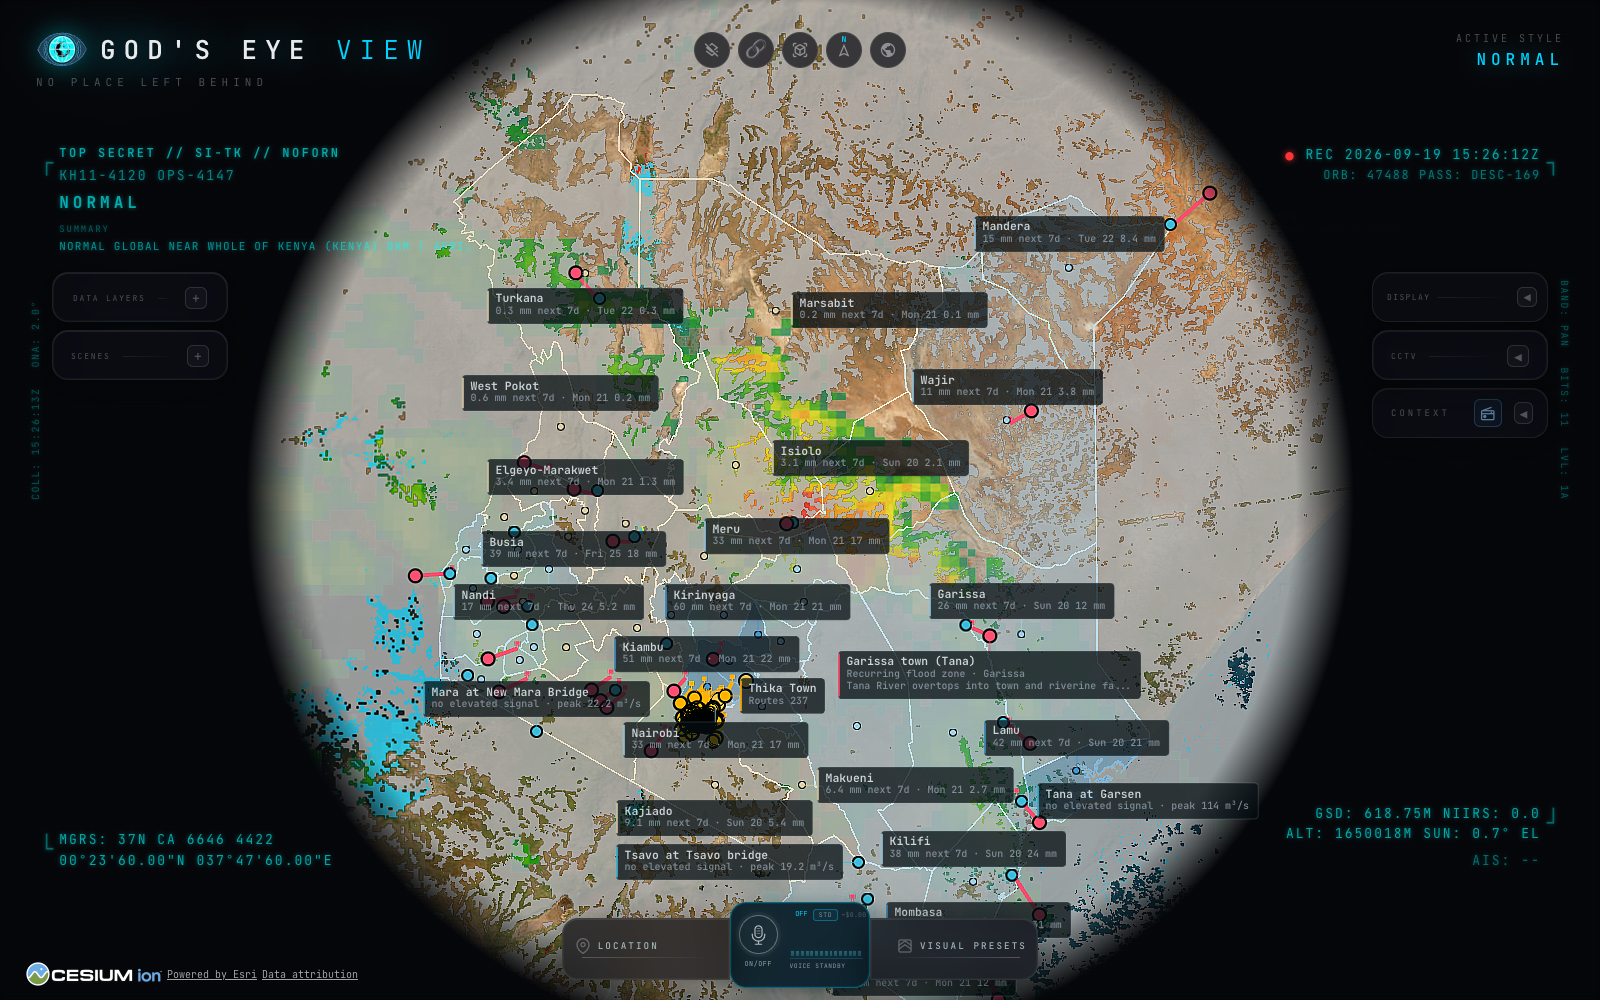
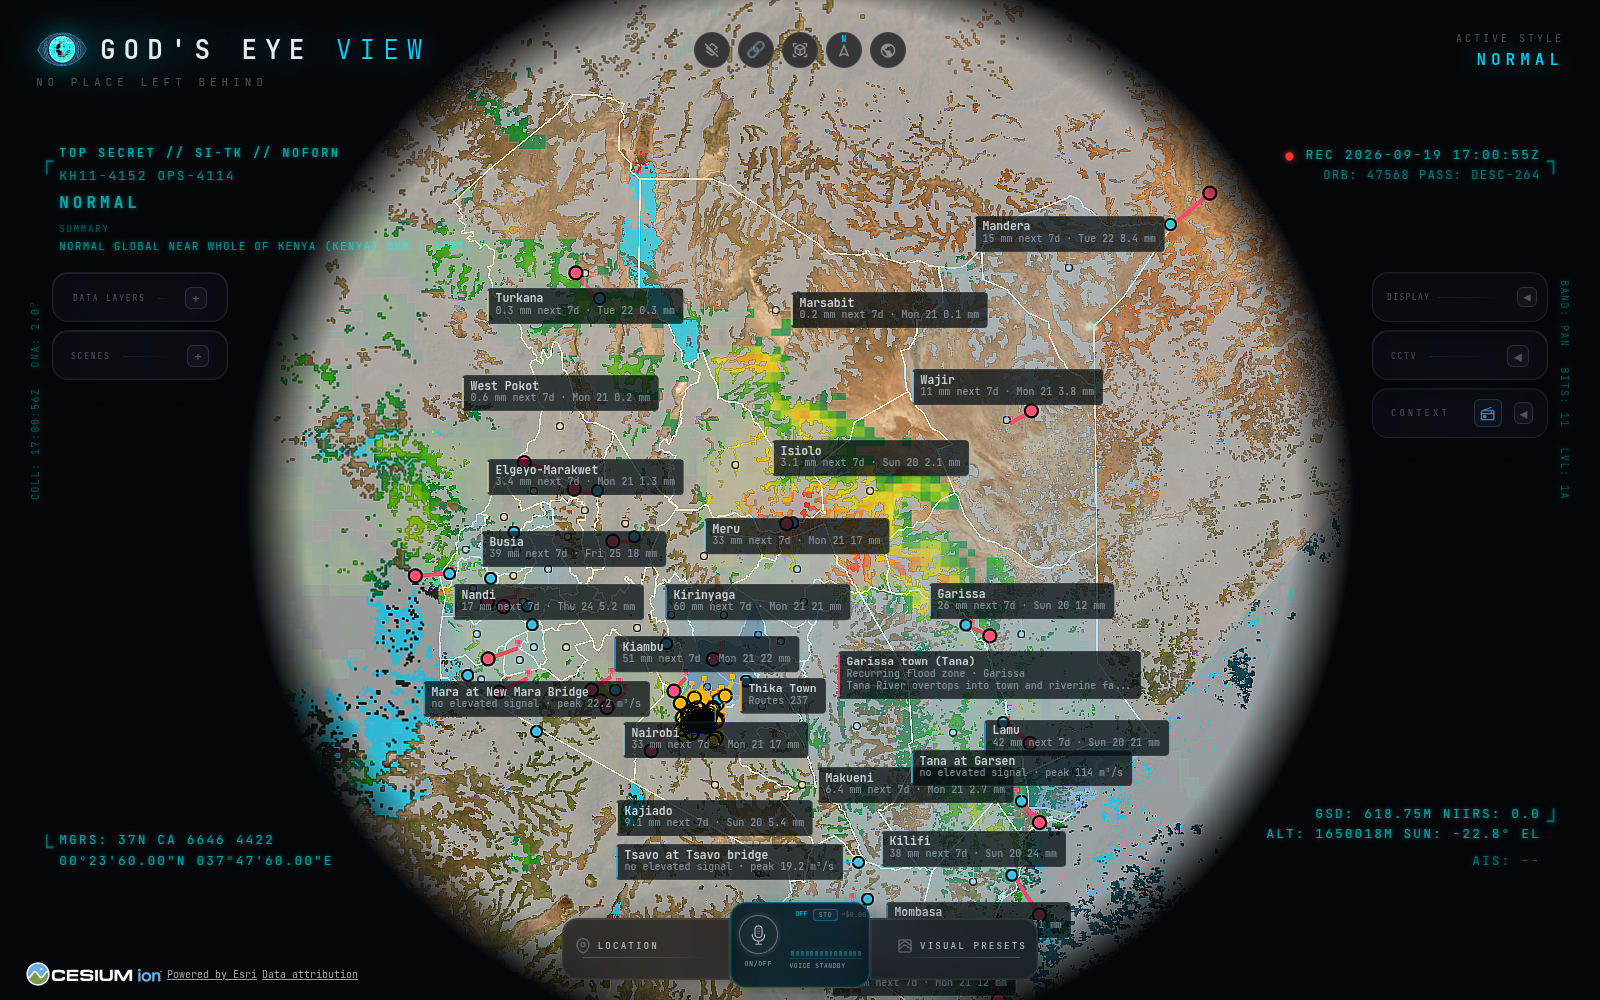
Ship the runner-rendered live screenshots (Kenya overview, lower Nzoia 3D footprint, Nairobi rivers)
Claude-Session: https://claude.ai/code/session_01V6Lvka8uZawLrPGHitw274

diff --git a/KENYA.md b/KENYA.md
@@ -111,6 +111,12 @@ rains start; that comparison is the cheapest honesty check there is.
 
 ![Forecast flood footprint on the lower Nzoia](docs/media/kenya-flood-footprint-3d.png)
 
+![Nairobi River at Kariobangi with the matatu network and hotspots](docs/media/kenya-nairobi-rivers-3d.png)
+
+The screenshots are rendered by `.github/workflows/kenya-proof.yml` on a
+runner from live data (`scripts/shot-kenya-3d.mjs`), after the live browser
+QA passes, so what is in the README is what the deployed build drew.
+
 ## Verify it is real
 
 KMD Warnings are "in force" only when the CAP message is Actual, is an Alert
